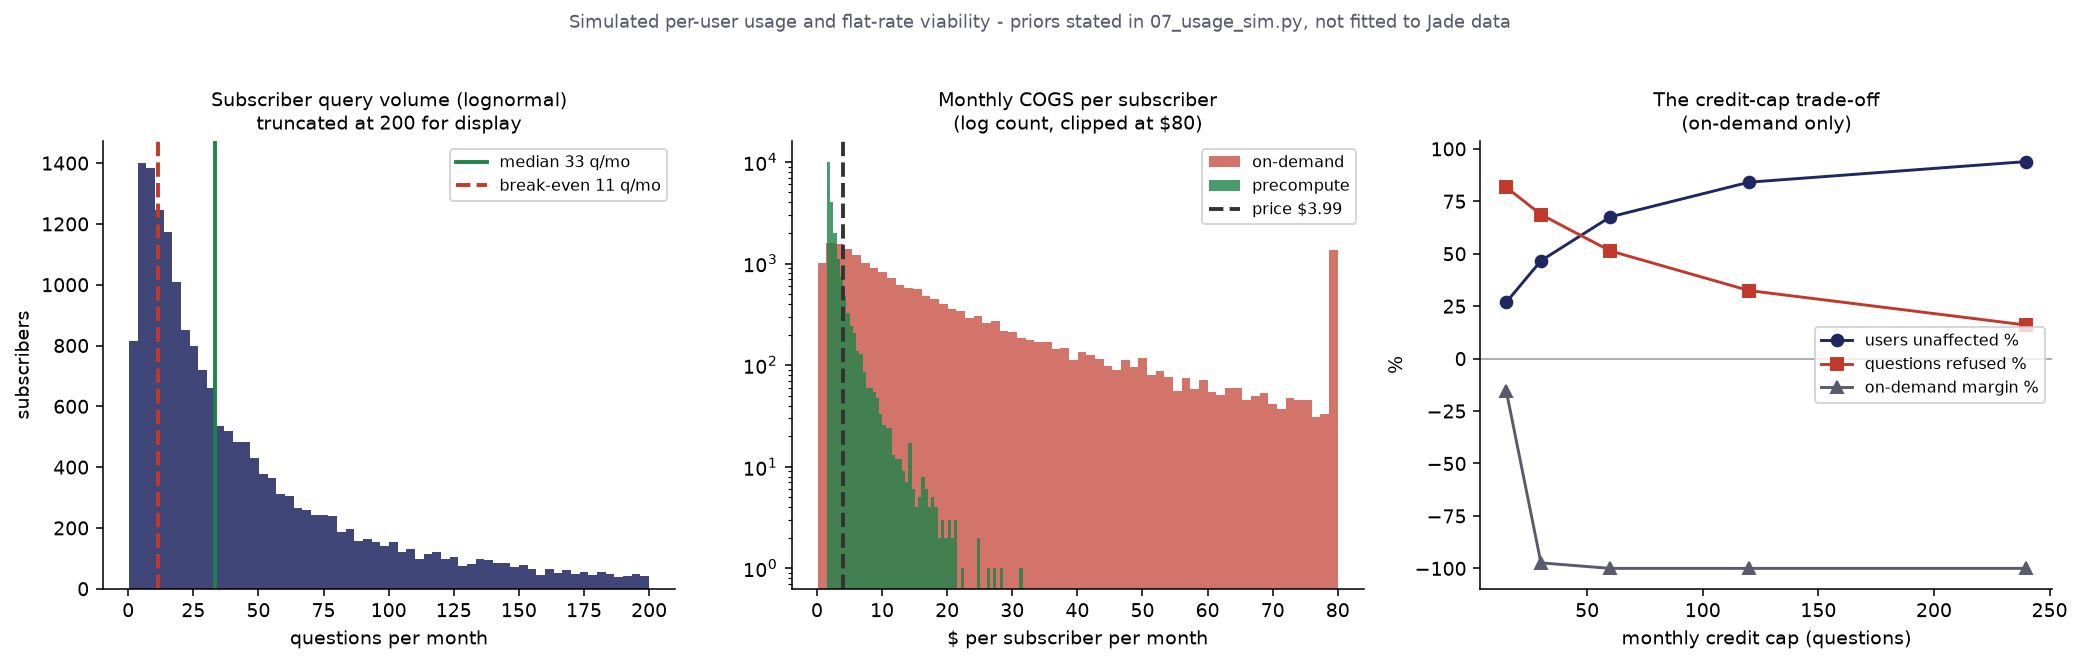
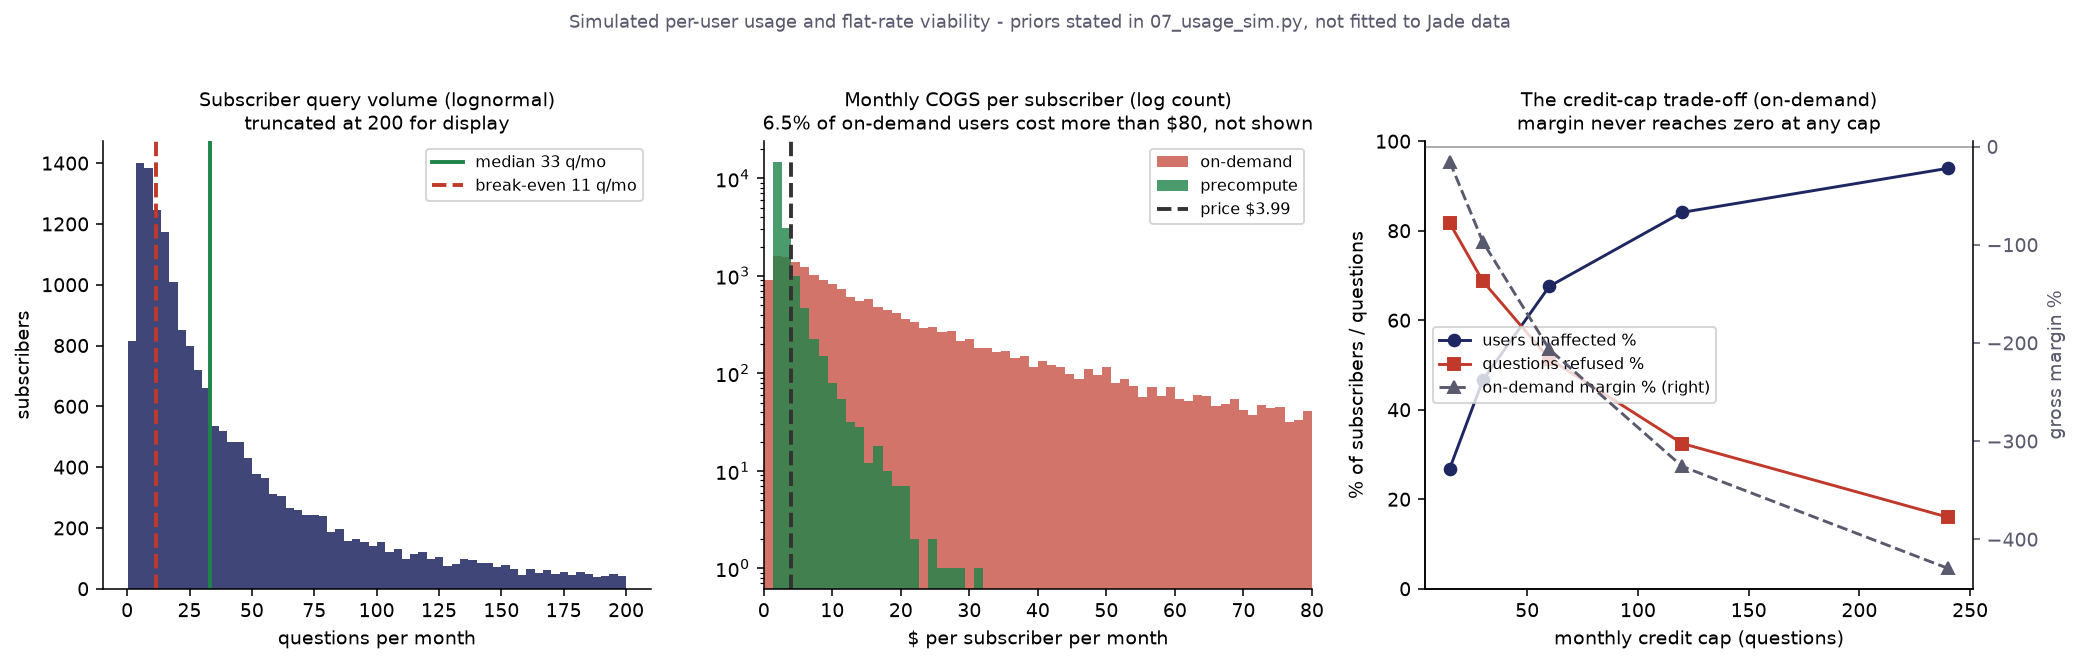
fix(charts): remove clamping artefacts from the usage figure
Two defects that misrepresented the data. Clamping COGS at $80 piled every
extreme user into one bar and invented a spike at the boundary; the tail is
now dropped and the share excluded (6.5%) stated in the title. Clamping
margin at -100% flattened the cap trade-off into a straight line and hid
that margin actually reaches -430%; it now has its own axis.

diff --git a/07_usage_sim.py b/07_usage_sim.py
@@ -255,33 +255,49 @@ def chart(results, cap_rows):
     ax.set_ylabel("subscribers")
     ax.legend(fontsize=8)
 
-    # 2. cost per user, both architectures
+    # 2. cost per user, both architectures. Drop the tail rather than clamp it:
+    # clamping piles every extreme user into one bar and invents a spike.
     ax = axes[1]
-    od = [min(x * COST_ON_DEMAND, 80) for x in base["_sub_q"]]
-    pc = [DIGESTS_PER_MONTH * DIGEST_COST + x * COST_FOLLOWUP for x in base["_sub_q"]]
-    pc = [min(x, 80) for x in pc]
-    ax.hist(od, bins=60, color="#C0392B", alpha=0.7, label="on-demand")
-    ax.hist(pc, bins=60, color="#1E8449", alpha=0.8, label="precompute")
+    LIM = 80
+    od_all = [x * COST_ON_DEMAND for x in base["_sub_q"]]
+    pc_all = [DIGESTS_PER_MONTH * DIGEST_COST + x * COST_FOLLOWUP for x in base["_sub_q"]]
+    od = [x for x in od_all if x <= LIM]
+    pc = [x for x in pc_all if x <= LIM]
+    hidden = sum(1 for x in od_all if x > LIM)
+    ax.hist(od, bins=60, range=(0, LIM), color="#C0392B", alpha=0.7, label="on-demand")
+    ax.hist(pc, bins=60, range=(0, LIM), color="#1E8449", alpha=0.8, label="precompute")
     ax.axvline(PRICE, color="#333333", lw=2, ls="--", label=f"price ${PRICE}")
     ax.set_yscale("log")
-    ax.set_title("Monthly COGS per subscriber\n(log count, clipped at $80)", fontsize=10)
+    ax.set_xlim(0, LIM)
+    ax.set_title(f"Monthly COGS per subscriber (log count)\n"
+                 f"{hidden/len(od_all):.1%} of on-demand users cost more than ${LIM}, not shown",
+                 fontsize=10)
     ax.set_xlabel("$ per subscriber per month")
     ax.legend(fontsize=8)
 
-    # 3. cap trade-off
+    # 3. cap trade-off. Margin gets its own axis: on one shared scale a -430%
+    # value flattens the two percentage series into a straight line.
     ax = axes[2]
     caps = [r["cap"] for r in cap_rows]
     ax.plot(caps, [r["users_unaffected"] * 100 for r in cap_rows], "o-",
             color="#1E2761", label="users unaffected %")
     ax.plot(caps, [r["questions_refused"] * 100 for r in cap_rows], "s-",
             color="#C0392B", label="questions refused %")
-    ax.plot(caps, [max(r["margin_od"], -1) * 100 for r in cap_rows], "^-",
-            color="#5A5A6E", label="on-demand margin %")
-    ax.axhline(0, color="#999999", lw=0.8)
-    ax.set_title("The credit-cap trade-off\n(on-demand only)", fontsize=10)
+    ax.set_ylim(0, 100)
     ax.set_xlabel("monthly credit cap (questions)")
-    ax.set_ylabel("%")
-    ax.legend(fontsize=8)
+    ax.set_ylabel("% of subscribers / questions")
+    ax2 = ax.twinx()
+    ax2.plot(caps, [r["margin_od"] * 100 for r in cap_rows], "^--",
+             color="#5A5A6E", label="on-demand margin % (right)")
+    ax2.axhline(0, color="#999999", lw=0.8)
+    ax2.set_ylabel("gross margin %", color="#5A5A6E")
+    ax2.tick_params(axis="y", colors="#5A5A6E")
+    ax2.spines["top"].set_visible(False)
+    h1, l1 = ax.get_legend_handles_labels()
+    h2, l2 = ax2.get_legend_handles_labels()
+    ax.legend(h1 + h2, l1 + l2, fontsize=8, loc="center left")
+    ax.set_title("The credit-cap trade-off (on-demand)\nmargin never reaches zero at any cap",
+                 fontsize=10)
 
     for a in axes:
         a.spines["top"].set_visible(False)
